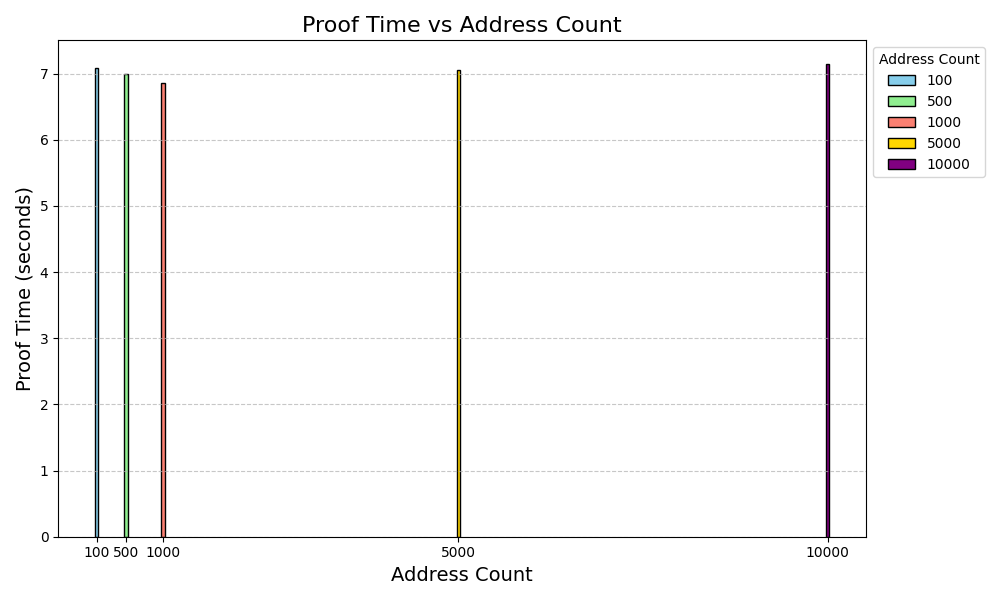
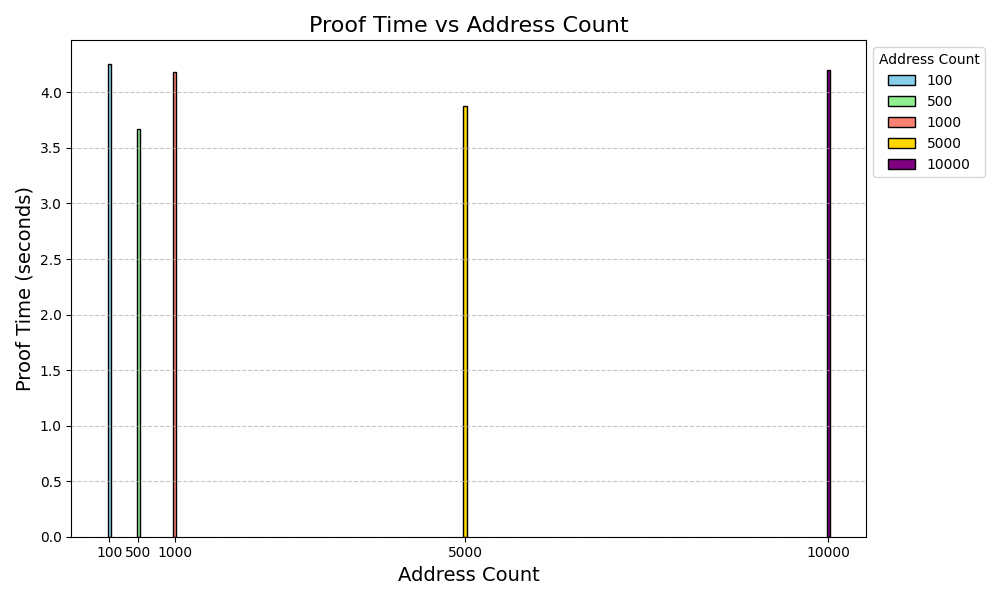
Re-collect basic benchmarks

diff --git a/evaluation/experiments.py b/evaluation/experiments.py
@@ -180,4 +180,4 @@ def create_addresses_histogram():
 
 
 if __name__ == "__main__":
-    create_org_histogram()
+    create_addresses_histogram()
